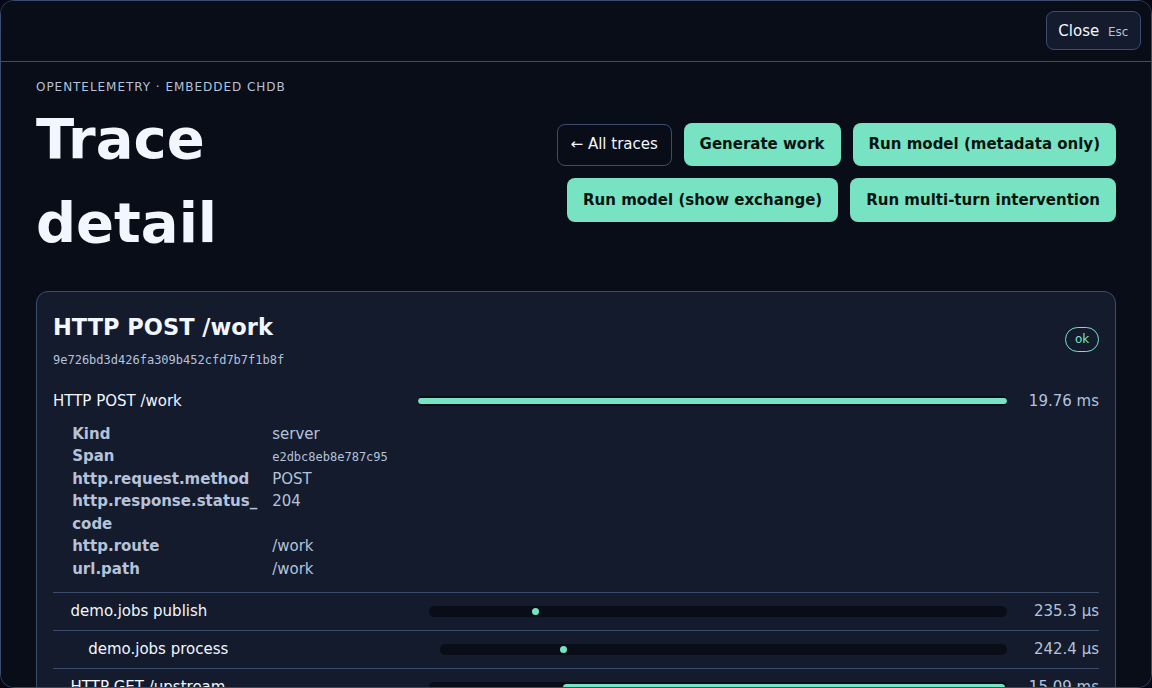
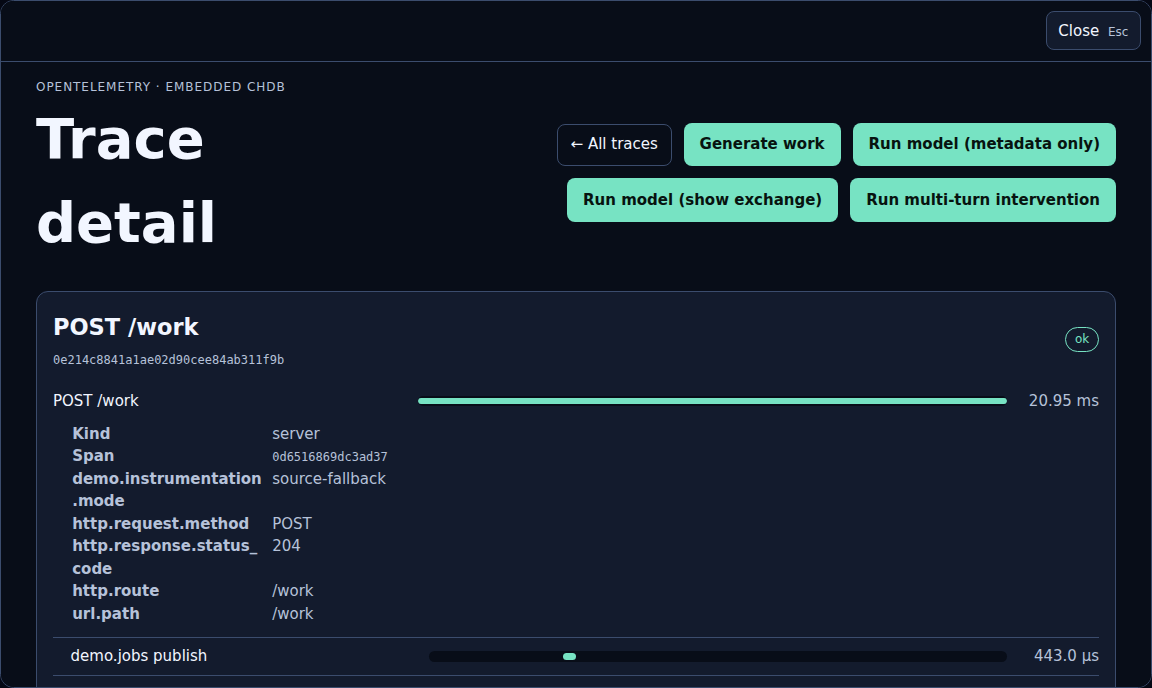
docs(demo): refresh observability trace stories

diff --git a/docs/instrumented-build-spike.md b/docs/instrumented-build-spike.md
@@ -1,8 +1,10 @@
 # On-demand instrumentation spike
 
-Status: synchronous V1 implemented and integration-gated, 2026-08-28. The
-remaining work is function-entry and asynchronous-completion contracts plus
-reusable DB and HTTP instrumentation packages.
+Status: synchronous call-site and fixed-arity function-entry V1 implemented
+and integration-gated, 2026-08-28. The reusable DB, HTTP client, and HTTP
+server packages are published. The Ring provider now owns callback completion
+and a post-span completion hook without adding an async primitive to the
+compiler contract.
 
 ## Goal
 
@@ -22,19 +24,21 @@ not runtime var replacement or Linux-only eBPF probing.
 ## Ownership boundary
 
 Each base library owns an inert, provider-neutral EDN resource such as
-`META-INF/jolt/aspects/jolt-http.edn`. The manifest contains no executable forms
+`META-INF/jolt/aspects/http-server.edn`. The manifest contains no executable forms
 and names semantic roles rather than OTel namespaces:
 
 ```clojure
 {:schema 1
- :library {:id io.github.casselc/jolt-http
+ :library {:id casselc/jolt-http
            :version "<exact source revision>"}
  :aspects
- [{:id :http/server-request
-   :match {:ns jolt.http.protocol
-           :call jolt.http.protocol/invoke-handler
-           :arity 7}
+ [{:id :http/server-ring-handler
+   :match {:entry jolt.http.protocol/invoke-handler :arity 8}
    :advice-role :http/server
+   :expect {:matches 1}}
+  {:id :http/server-sanitized-response
+   :match {:entry jolt.http.protocol/sanitize-response :arity 1}
+   :advice-role :http/server-response
    :expect {:matches 1}}]}
 ```
 
@@ -64,7 +68,7 @@ The embedded Samizdat demo uses the implemented application configuration:
 
 The manifests are published by the pinned Samizdat fork under
 `resources/META-INF/jolt/aspects/`; the demo no longer carries copies. Their
-compatibility id is the source revision whose call-site surface they describe,
+compatibility id is the source revision whose entry and call-site surface they describe,
 while resource-only commits may advance independently. Samizdat itself has no
 OTel dependency.
 
@@ -73,8 +77,8 @@ OTel dependency.
 The production weaver runs after macro expansion and name resolution, but
 before inference, inlining, direct linking, and tree shaking. It:
 
-- matches resolved namespace, qualified call, and arity; never source line
-  numbers;
+- matches either a qualified fixed-arity function definition entry or a
+  resolved namespace, qualified call, and arity; never source line numbers;
 - fails the build when an aspect has zero or ambiguous matches, an unsupported
   schema, an incompatible library revision, or a missing provider role;
 - preserves source position metadata for stack traces;
@@ -93,9 +97,14 @@ maintained HTTP client call. Arguments evaluate once. The target executes once.
 Its exact result or exception wins, and missing, repeated, or failing advice
 fails open without retrying an application operation that already began.
 
-Async completion is not a V1 contract. Ambient thread bindings are insufficient
-after a handler returns; a future contract must own an explicit exactly-once
-completion token and use `otel.context/bind-fn*` behavior across executors.
+V1 does not ask the compiler to understand async completion. The HTTP server
+provider uses `:replace-args-v1` to replace the normalized Ring handler with a
+wrapper that owns the existing `respond`/`raise` callbacks. It serializes their
+terminal decision, restores the captured OTel context, ends exactly once after
+the accepted callback, and then invokes an observational completion hook. That
+hook lets the embedded collector durably flush the completed server span before
+a redirect triggers the next viewer query. This is Ring callback completion,
+not proof that bytes reached the peer.
 
 ## Verified integration
 
@@ -123,15 +132,22 @@ standalone native-error fixture combines an aspect-selected call with
 `{:blocking true :capture-native-error true}` and proves advice cannot change
 the exact `[result native-error]` pair.
 
+`test/aspect_demo_e2e.sh` runs the same live-update, editor, oscope, and
+no-JavaScript browser story first from source and then from a woven native
+binary. Source mode retains five explicit fallback spans tagged
+`demo.instrumentation.mode=source-fallback`. Woven mode has six spans, uses the
+generic DB and HTTP providers, rejects every fallback tag, and verifies that
+the post-span completion hook prevents partial traces after redirects.
+
 ## Next contracts and packages
 
 1. Extend the now-tested fixed-arity function-entry selector only when a real
    anonymous, variadic, or generated-method seam requires a new contract.
-2. Specify async completion and cross-thread lifecycle ownership before
-   instrumenting Ring response completion or other callback-driven operations.
-3. The shared DB SPI manifest and reusable OTel consumer are published and the
-   demo's handwritten DB span is removed. Repeat the pattern for `jolt-http`
-   and `http-client` without weakening source-mode behavior.
+2. Generalize callback completion only when another library cannot express its
+   lifecycle by wrapping already-explicit callback arguments.
+3. Add configurable propagator composition and malformed Trace Context cases
+   to the HTTP packages; client baggage injection is intentionally absent in
+   the current release.
 4. Keep Kindly presentation advisers beside each instrumentation vocabulary,
    while leaving stored telemetry and generic viewer APIs presentation-free.
 
@@ -152,6 +168,5 @@ the exact `[result native-error]` pair.
 - Library-supplied presentation advice follows Kindly scalar wrapping and
   metadata rules, is bounded by the host, and never enters persisted telemetry.
 
-The reusable HTTP packages and async server lifecycle remain acceptance gates
-for the next phase. The DB package, synchronous compiler, and Samizdat
-integration no longer depend on a proposed or private compiler hook.
+The DB and HTTP packages, callback-owned server lifecycle, compiler, and
+Samizdat integration no longer depend on a proposed or private compiler hook.

diff --git a/README.md b/README.md
@@ -19,9 +19,11 @@ jolt -m demo.main
 Open <http://127.0.0.1:8080/> and select **Generate work**. The resulting trace
 contains five parent-linked spans across a propagated producer/consumer queue
 handoff and a real loopback HTTP client/server boundary, with correlated logs.
-The compiler-woven build adds a sixth DB span around the unchanged embedded
-query through the library-owned `jolt-lang/db` manifest and the separately
-published OTel consumer. Traces and logs appear in the open page through a
+Source mode marks its three explicit HTTP fallback spans as
+`demo.instrumentation.mode=source-fallback`. The compiler-woven build replaces
+those fallbacks with separately published generic HTTP providers and adds a
+sixth DB span around the unchanged embedded query through the library-owned
+`jolt-lang/db` manifest. Traces and logs appear in the open page through a
 bounded SSE stream; the page remains usable without JavaScript.
 
 ![Trace waterfall with queue and HTTP spans](docs/screenshots/03-trace-waterfall-dialog.png)
@@ -66,7 +68,7 @@ Configuration is optional:
 - `DEMO_LEMONADE_DISABLE_THINKING` defaults to true; set it to `false` only when
   intentionally testing provider thinking behavior.
 
-![Navigating a complete agent trace](docs/screenshots/agent-trace-tour.gif)
+![A real embedded Samizdat coding run flowing into its trace](docs/screenshots/samizdat-trace-tour.gif)
 
 ![Controller intervention and revised turn](docs/screenshots/07-agent-controller-intervention.png)
 
@@ -133,6 +135,18 @@ JOLT_CHDB_LIB=/absolute/path/to/libchdb.so \
 
 `test/samizdat_real_run_smoke.sh` provides the corresponding browser-free
 compiled-binary smoke.
+
+The same deterministic real run produces the checked-in animated trace tour.
+It submits the nonce-bearing coding task, waits for the actual edit and test
+loop, navigates to the resulting trace, and opens the captured model exchange:
+
+```sh
+JOLT_CHDB_LIB=/absolute/path/to/libchdb.so npm run docs:samizdat-gif
+```
+
+This recorder opts into bounded model-content capture only for its local
+fixture and requires Chromium plus `ffmpeg`. It never records the physical
+model endpoint.
 
 ## Run the offline workbench fixture
 
@@ -206,9 +220,12 @@ JOLT_CHDB_LIB=/path/to/libchdb.so \
 ```
 
 That gate proves the plain source story has five spans, the woven story has six,
-the generated `SELECT` span is a direct child of the request span, and exporter,
-schema, explorer, API, viewer, and deferred SSE work cannot feed back through
-database auto-instrumentation.
+the generated `SELECT` span is a direct child of the request span, generic HTTP
+spans contain no fallback provenance, and exporter, schema, explorer, API,
+viewer, and deferred SSE work cannot feed back through auto-instrumentation.
+The server provider ends its span at accepted Ring callback completion and then
+flushes it before redirect-driven viewer queries, preventing partial trace
+roots in both JavaScript and no-JavaScript flows.
 
 ## Receive OTLP
 
@@ -253,9 +270,17 @@ The same deterministic story owns the checked-in documentation frames:
 JOLT_CHDB_LIB=/path/to/libchdb.so npm run docs:screenshots
 ```
 
+The JVM Plotje oracle verifies that the demo's normalized chart spec is
+accepted by the exact upstream Plotje revision:
+
+```sh
+clojure -M:plotje-oracle-test
+```
+
 See [docs/storyboard.md](docs/storyboard.md) for the tested interaction and
 [docs/instrumented-build-spike.md](docs/instrumented-build-spike.md) for the
-proposed provider-neutral aspect/weaver proof. The resolved Samizdat run,
+implemented provider-neutral aspect/weaver contract and remaining propagation
+and lifecycle fast follows. The resolved Samizdat run,
 control-loop, model, tool, memory, HTTP, and DB seams are recorded in
 [docs/samizdat-instrumentation.md](docs/samizdat-instrumentation.md).
 The cross-repository release order and exact remaining SHA replacements are in

diff --git a/docs/storyboard.md b/docs/storyboard.md
@@ -19,11 +19,11 @@ must not navigate or reload. A durable SSE patch adds the newest trace and logs.
 The ordinary source workload records five parent-linked spans:
 
 ```text
-HTTP POST /work
+POST /work
   +-- demo.jobs publish
   |    `-- demo.jobs process
-  `-- HTTP GET /upstream
-       `-- HTTP GET /upstream
+  `-- GET
+       `-- GET /upstream
 ```
 
 The DB query executes against embedded chDB. The queue handoff injects and
@@ -73,8 +73,10 @@ querying, and downloading, so the utility cannot recursively observe itself.
 
 `npm run test:browser:aspect` builds the same application with selected
 instrumentation aspects. It proves the generated DB span replaces the removed
-handwritten span. A reusable HTTP package remains the next equivalent slice;
-see [instrumented-build-spike.md](instrumented-build-spike.md).
+handwritten span and the reusable HTTP providers replace all three tagged
+source fallbacks without duplicates. The provider's post-span completion hook
+also proves a POST/303 redirect cannot expose a partially flushed trace; see
+[instrumented-build-spike.md](instrumented-build-spike.md).
 
 The persistent browser gate runs the ordinary live-update story, terminates the
 Jolt process, starts a second process over the same temporary `chdb:` path, and
@@ -127,3 +129,26 @@ The animation opens the two-turn trace, finds the controller intervention, and
 then inspects the revised generation's captured prompt and response.
 
 ![Navigating the complete agent trace](screenshots/agent-trace-tour.gif)
+
+## Real embedded Samizdat coding run
+
+The primary integration animation uses the compiled standalone application,
+not the scripted workbench adapter. It submits a concrete arithmetic regression
+task to the embedded Samizdat control loop, streams the real tool progression,
+then opens the resulting compiler-woven trace and its bounded model exchange.
+The fixture model verifies the exact prompt and W3C `traceparent`; Samizdat
+creates and claims a task, reads source and tests, edits the implementation,
+runs the focused test, and reports the result.
+
+After building `target/samizdat-observability-demo` as described in the README,
+record the same asserted story with:
+
+```sh
+JOLT_CHDB_LIB=/path/to/libchdb.so npm run docs:samizdat-gif
+```
+
+This one recorder opts into bounded prompt and response capture. It uses a
+loopback fixture whose physical address is excluded from the UI and telemetry;
+the browser assertion rejects that address before preserving the animation.
+
+![Real Samizdat run and trace](screenshots/samizdat-trace-tour.gif)

diff --git a/docs/samizdat-instrumentation.md b/docs/samizdat-instrumentation.md
@@ -33,23 +33,23 @@ every internal function.
 The application manifest owns vocabulary that would be meaningless in a
 generic HTTP or database library:
 
-| Role | Resolved call | Current call site |
+| Role | Selected definition or call | Current coverage |
 | --- | --- | --- |
-| Run | `samizdat.agent.beam/run!` arity 1 | `api/control.clj:100`, inside the future created at line 98; and `api/openai.clj:103` |
+| Run | entry of `samizdat.agent.beam/run!` arity 1 | Every caller, including embedded, control, and OpenAI surfaces |
 | Control loop | Beam scheduler scope around branch advancement | Compose around the run and `advance-branch` rules; no standalone resolved call is claimed |
 | Branch | Per-branch scope | Derived from the branch value passed to `advance-branch`; no standalone resolved call is claimed |
-| Beam turn | `samizdat.agent.beam/advance-branch` arity 3 | `agent/beam.clj:566`; encloses the production branch turn |
-| Model | `samizdat.llm.client/chat` arity 4 | `agent/infer.clj:187`; also cover arity 3 raw/probe callers |
+| Beam turn | entry of `samizdat.agent.beam/advance-branch` arity 3 | Every live beam turn |
+| Model | entry of `samizdat.llm.client/chat` arity 4 | All calls reach the canonical four-argument arity; the public arity 3 delegates to it without a duplicate outer span |
 | Model HTTP | `jolt.http-client/post` arity 2 | `llm/client.clj:152`; the single provider-independent maintained-client call site; inference calls nest beneath the model span, while auxiliary Samizdat calls retain their current run context |
 | Tool selection event | `samizdat.agent.infer/absorb` arity 3 | `agent/loop.clj:377` |
-| Tool execution | `samizdat.agent.tools/run-tool` arity 1 | `agent/loop.clj:547` |
+| Tool execution | entry of `samizdat.agent.tools/run-tool` arity 1 | Every tool dispatch through the semantic wrapper |
 | Semantic memory | `remember!` 2, `recall` 2/3, `record-outcome!` 3, `forget!` 2 | `store/knowledge.clj` |
 
 `advance-branch` is a complete turn only for the live beam driver. The
 single-driver workflow back-edge lives inside Mycelium, so universal turn spans
-need either function-entry weaving plus a Mycelium interceptor, or explicit
-hooks around `:loop/assemble` and `:loop/route`. A call-site-only weaver must not
-pretend it covers both drivers.
+still need a Mycelium interceptor or explicit hooks around `:loop/assemble` and
+`:loop/route`; function-entry weaving removes caller gaps but does not invent a
+semantic operation where the alternate driver has a different lifecycle.
 
 ## Library-owned rules
 

diff --git a/docs/publication-checklist.md b/docs/publication-checklist.md
@@ -20,8 +20,13 @@ do not replace WIP local roots with branch names.
 3. **OTel libraries.** Publish the maintained http-client/crypto dependency
    graph in `otel`; publish the explorer-owned `db.jdbc` clean-load fix in
    `jolt-otel-clickhouse`; publish bounded span-event rendering in
-   `jolt-otel-viewer`. Update each dependent repo to the exact resulting SHA
-   only after its own full gate is green.
+   `jolt-otel-viewer`. The provider-neutral `http-client` and `jolt-http`
+   manifests and the separate `jolt-otel-instrumentation-http-client` and
+   `jolt-otel-instrumentation-http-server` consumers are now published and
+   exact-pinned by the demo. The server consumer owns accepted Ring callback
+   completion, request-scoped source-fallback detection, and an observational
+   post-span hook. Update each dependent repo to an exact resulting SHA only
+   after its own full gate is green.
 4. **Observability demo.** The library graph now uses exact Samizdat, viewer,
    OTel, chDB, ClickHouse exporter, and oscope coordinates. The intentional
    `samizdat-demo/` local root names the enclosing application being compiled,
